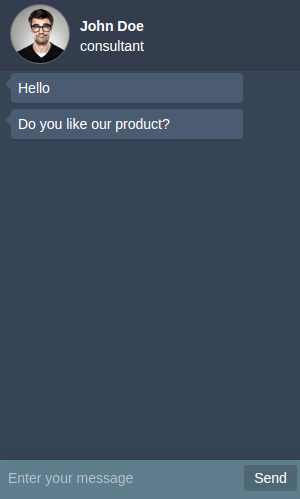
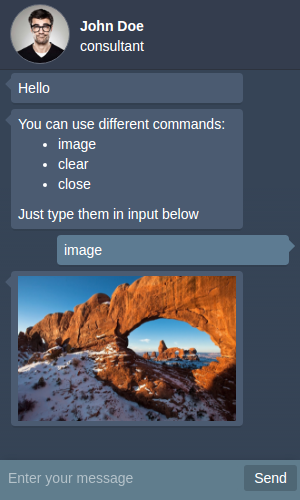
Updated themes examle and screenshots

diff --git a/demo/examle-embedded.html b/demo/examle-embedded.html
@@ -6,44 +6,140 @@
     <script async src="../lib/chat-ui.js"></script>
     <link href="../lib/chat-ui.css" rel="stylesheet" media="all" />
 
+    <link rel="stylesheet" href="https://cdnjs.cloudflare.com/ajax/libs/highlight.js/9.4.0/styles/darkula.min.css">
     <link href="https://maxcdn.bootstrapcdn.com/bootstrap/3.3.6/css/bootstrap.min.css" rel="stylesheet">
 
     <style>
-        #chat {
+        .input-container {
             width: 370px;
-            height: 500px;
-            margin: 20px auto 0 auto;
-            border: 1px solid #BFBFBF;
             border-radius: 5px;
             position: relative;
             box-shadow: 0 0 7px #DCDCDC;
+            border: 1px solid #BFBFBF;
+        }
+        #chat {
+            height: 500px;
+            margin: 20px auto 0 auto;
             overflow: auto;
         }
         #input {
-            width: 370px;
-            margin: 5px auto 0 auto;
-            border: 1px solid #BFBFBF;
             padding: 5px;
-            border-radius: 5px;
-            position: relative;
-            box-shadow: 0 0 7px #DCDCDC;
+            margin: 5px auto 0 auto;
         }
         #chat-ui-dialog {
             background: transparent;
         }
+        .code-example {
+            margin: 20px 0 20px 0;
+        }
+        .code-example__code {
+            position: relative;
+        }
+        .code-example__code_short {
+            max-height: 200px;
+            overflow: hidden;
+        }
+        .code-example__code_short:after {
+            position: absolute;
+            content: '';
+            height: 100px;
+            width: 100%;
+            bottom: 0;
+            left: 0;
+            background: linear-gradient(to bottom, rgba(43,43,43,0) 0%,rgb(0, 0, 0) 100%);
+        }
     </style>
+
+    <script type="text/javascript" src="https://cdnjs.cloudflare.com/ajax/libs/highlight.js/9.4.0/highlight.min.js"></script>
+    <script type="text/javascript" src="https://cdnjs.cloudflare.com/ajax/libs/highlight.js/9.4.0/languages/javascript.min.js"></script>
 </head>
 <body>
     <div class="container">
         <h3>Embedded chat</h3>
-        <div id="chat"></div>
-        <div id="input">
-            scsc
+        <div id="chat" class="input-container"></div>
+        <div id="input" class="input-container">
+            <form class="input-table">
+                <div class="input-table__cell">
+                    <input type="text" class="input-table__input-field" placeholder="Enter your message">
+                </div>
+                <div class="input-table__cell">
+                    <button type="submit" class="input-table__send">Send</button>
+                </div>
+            </form>
         </div>
+    </div>
+
+    <div class="container">
+        <pre class="code-example">
+            <code class="code-example__code code-example__code_short javascript">
+$(document).ready(function() {
+    var phrases = [
+        'Ok',
+        'How can I help you?',
+        'Nice weather today, don\'t you think?',
+        'Do you want one of our representative will call you back?',
+        'Do you like our product?',
+        'Where have you heard about us?',
+        'Glad you still use our products',
+        'thank you for waiting',
+        'Hello again!',
+        ':)',
+        '^_^'
+    ];
+
+    var chat = ChatUI().render('#chat', 'dialog');
+
+    var chatIcon = document.getElementById('chat-icon');
+
+    chat.trigger('open-chat');
+
+    chat.trigger('add-phrase', 'Hello');
+
+    var timeoutId = null;
+    var chatMessage = function(msg) {
+        if (msg === 'close') {
+            chat.trigger('close-chat');
+        } else if (msg === 'clear') {
+            chat.trigger('clear-dialog');
+        } else if (!timeoutId) {
+            var waitTime = Math.floor(Math.random() * 2000) + 600;
+            setTimeout(function() {
+                chat.trigger('is-typing');
+            }, 500);
+            timeoutId = setTimeout(function() {
+                var phraseNumber = Math.floor(Math.random() * (phrases.length - 1));
+                chat.trigger('add-phrase', phrases[phraseNumber]);
+                timeoutId = null;
+            }, waitTime);
+        }
+    };
+
+    chat.trigger('add-phrase', '<img src="./smile-hi.gif">');
+
+    chat.on('user-send-message', chatMessage);
+
+    chat.on('chat-closed', function(data) {
+        console.log('chat-closed', data);
+        chatIcon.style.display = 'block';
+    });
+});
+            </code>
+        </pre>
+
+        <button type="button" class="btn btn-info show-full-code">
+            Show full code
+        </button>
+
     </div>
 
 <script type="text/javascript" src="https://cdnjs.cloudflare.com/ajax/libs/jquery/2.2.4/jquery.min.js"></script>
 <script>
+    hljs.initHighlightingOnLoad();
+
+    $('.show-full-code').click(function() {
+        $('.code-example__code').toggleClass('code-example__code_short')
+    });
+
     $(document).ready(function() {
         var phrases = [
             'Ok',
@@ -91,7 +187,9 @@
                 }, waitTime);
             }
         };
-        chatMessage();
+
+        chat.trigger('add-phrase', '<img src="./smile-hi.gif">');
+
         chat.on('user-send-message', chatMessage);
 
         chat.on('chat-closed', function(data) {

diff --git a/demo/example-themes.html b/demo/example-themes.html
@@ -52,6 +52,9 @@
             background-color: #ffffff;
             border-radius: 8px;
         }
+        .bubble-image {
+            width: 100%;
+        }
     </style>
 
     <script type="text/javascript" src="https://cdnjs.cloudflare.com/ajax/libs/highlight.js/9.4.0/highlight.min.js"></script>
@@ -97,9 +100,12 @@ $(document).ready(function() {
         subtitle: 'consultant'
     }).render('#chat');
 
-    var chatIcon = document.getElementById('chat-icon');
+    var $chatIcon = $('#chat-icon');
 
-    chat.trigger('open-chat');
+    $chatIcon.click(function() {
+        chat.trigger('open-chat');
+        $chatIcon.hide();
+    });
 
     // chat.trigger('add-phrase', {side: 'chat', message:'Hello'});
     // chat.trigger('add-phrase', {message:'Hello'});
@@ -109,6 +115,9 @@ $(document).ready(function() {
     var chatMessage = function(msg) {
         if (msg === 'close') {
             chat.trigger('close-chat');
+        } else if (msg === 'image') {
+            var imgNumber = Math.floor(Math.random() * 3) + 1;
+            chat.trigger('add-phrase', '&lt;img class="bubble-image" src="./image-0' + imgNumber + '.jpg"&gt;');
         } else if (msg === 'clear') {
             chat.trigger('clear-dialog');
         } else if (!timeoutId) {
@@ -123,12 +132,23 @@ $(document).ready(function() {
             }, waitTime);
         }
     };
-    chatMessage();
+
+    chat.trigger('add-phrase', '<img src="./smile-hi.gif">');
+    chat.trigger('add-phrase', [
+        'You can use different commands:',
+        '&lt;ul&gt;',
+        '&lt;li&gt;image&lt;/li&gt;',
+        '&lt;li&gt;clear&lt;/li&gt;',
+        '&lt;li&gt;close&lt;/li&gt;',
+        '&lt;/ul&gt;',
+        'Just type them in input below'
+    ].join(''));
+
     chat.on('user-send-message', chatMessage);
 
     chat.on('chat-closed', function(data) {
         console.log('chat-closed', data);
-        chatIcon.style.display = 'block';
+        $chatIcon.show();
     });
 });
         </code>
@@ -214,6 +234,9 @@ $(document).ready(function() {
         var chatMessage = function(msg) {
             if (msg === 'close') {
                 chat.trigger('close-chat');
+            } else if (msg === 'image') {
+                var imgNumber = Math.floor(Math.random() * 3) + 1;
+                chat.trigger('add-phrase', '<img class="bubble-image" src="./image-0' + imgNumber + '.jpg">');
             } else if (msg === 'clear') {
                 chat.trigger('clear-dialog');
             } else if (!timeoutId) {
@@ -230,6 +253,15 @@ $(document).ready(function() {
         };
 
         chat.trigger('add-phrase', '<img src="./smile-hi.gif">');
+        chat.trigger('add-phrase', [
+            'You can use different commands:',
+            '<ul>',
+            '<li>image</li>',
+            '<li>clear</li>',
+            '<li>close</li>',
+            '</ul>',
+            'Just type them in input below'
+        ].join(''));
 
         chat.on('user-send-message', chatMessage);
 

diff --git a/source/services/chatSettings.js b/source/services/chatSettings.js
@@ -25,7 +25,12 @@ export const chatSettings = (() => {
         `,
         // Updated sanitize options
         sanitizeOptions: {
-            allowedTags: sanitizeHtml.defaults.allowedTags.concat(['img'])
+            allowedTags: sanitizeHtml.defaults.allowedTags.concat(['img']),
+            allowedAttributes: {
+                a: sanitizeHtml.defaults.allowedAttributes.a,
+                img: sanitizeHtml.defaults.allowedAttributes.img.concat(['class']),
+                div: ['class']
+            }
         }
     };
 

diff --git a/readme-ru.md b/readme-ru.md
@@ -4,6 +4,8 @@
 
 Модуль для отображения чат интерфейса
 
+![alt tag](https://github.com/artemdemo/chat-ui/blob/master/img/chat-themes.png)
+
 ### Разработка
 
 * ES6
@@ -24,4 +26,5 @@
 ### Библиотеки
 
 * Bean - an events api library [github:bean](https://github.com/fat/bean), [npm:bean](https://www.npmjs.com/package/bean)
-* EventEmitter - evented JavaScript for the browser [github:wolfy87-eventemitter](https://github.com/Olical/EventEmitter), [npm:wolfy87-eventemitter](https://www.npmjs.com/package/wolfy87-eventemitter)
+* sanitize-html - Clean up user-submitted HTML, preserving whitelisted elements and whitelisted attributes on a per-element basis,
+[npm:sanitize-html](https://www.npmjs.com/package/sanitize-html)

diff --git a/readme.md b/readme.md
@@ -4,6 +4,8 @@
 
 Module for Chat UI representation
 
+![alt tag](https://github.com/artemdemo/chat-ui/blob/master/img/chat-themes.png)
+
 ### Developing
 
 * ES6
